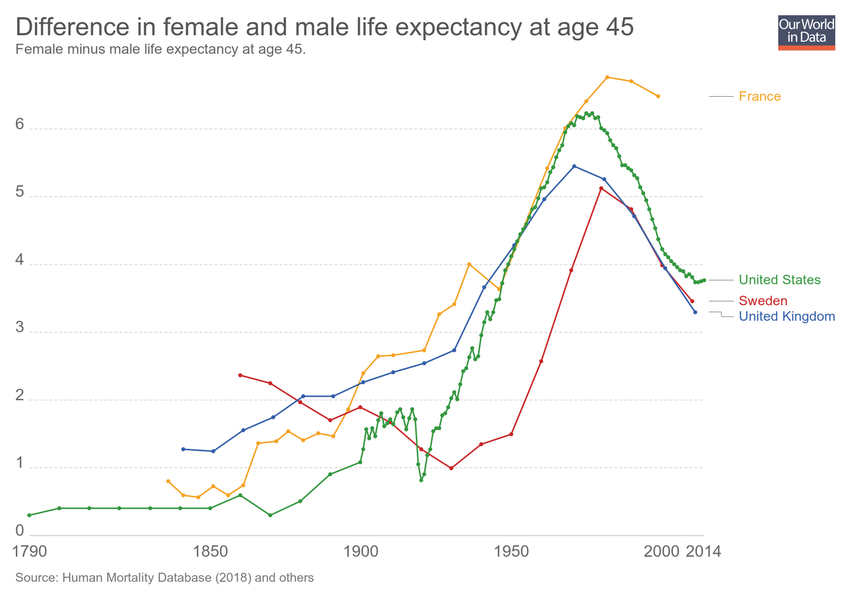
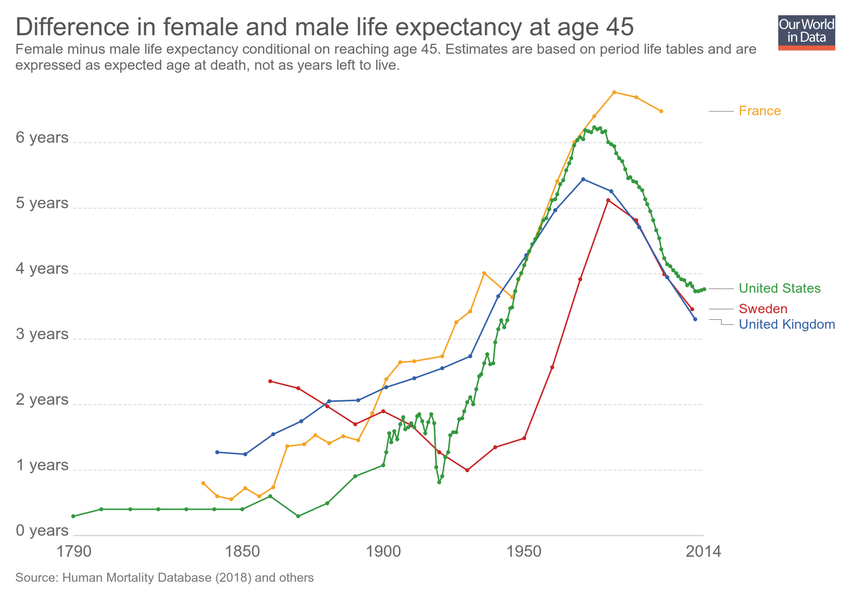
Updating chart difference-in-female-and-male-life-expectancy-at-age-45

diff --git a/grapher/difference-in-female-and-male-life-expectancy-at-age-45.html b/grapher/difference-in-female-and-male-life-expectancy-at-age-45.html
@@ -1,4 +1,4 @@
-<!doctype html><html><head><meta name="viewport" content="width=device-width, initial-scale=1" /><title>Difference in female and male life expectancy at age 45 - Our World in Data</title><meta name="description" content="Female minus male life expectancy at age 45." /><link rel="canonical" href="https://ourworldindata.org/grapher/difference-in-female-and-male-life-expectancy-at-age-45" /><meta property="fb:app_id" content="1149943818390250" /><meta property="og:url" content="https://ourworldindata.org/grapher/difference-in-female-and-male-life-expectancy-at-age-45" /><meta property="og:title" content="Difference in female and male life expectancy at age 45" /><meta property="og:description" content="Female minus male life expectancy at age 45." /><meta property="og:image" content="https://ourworldindata.org/grapher/exports/difference-in-female-and-male-life-expectancy-at-age-45.png?v=1" /><meta property="og:image:width" content="850" /><meta property="og:image:height" content="600" /><meta property="og:site_name" content="Our World in Data" /><meta name="twitter:card" content="summary_large_image" /><meta name="twitter:site" content="@OurWorldInData" /><meta name="twitter:creator" content="@OurWorldInData" /><meta name="twitter:title" content="Difference in female and male life expectancy at age 45" /><meta name="twitter:description" content="Female minus male life expectancy at age 45." /><meta name="twitter:image" content="https://ourworldindata.org/grapher/exports/difference-in-female-and-male-life-expectancy-at-age-45.png?v=1" /><style>
+<!doctype html><html><head><meta name="viewport" content="width=device-width, initial-scale=1" /><title>Difference in female and male life expectancy at age 45 - Our World in Data</title><meta name="description" content="Female minus male life expectancy conditional on reaching age 45. Estimates are based on period life tables and are expressed as expected age at death, not as years left to live." /><link rel="canonical" href="https://ourworldindata.org/grapher/difference-in-female-and-male-life-expectancy-at-age-45" /><meta property="fb:app_id" content="1149943818390250" /><meta property="og:url" content="https://ourworldindata.org/grapher/difference-in-female-and-male-life-expectancy-at-age-45" /><meta property="og:title" content="Difference in female and male life expectancy at age 45" /><meta property="og:description" content="Female minus male life expectancy conditional on reaching age 45. Estimates are based on period life tables and are expressed as expected age at death, not as years left to live." /><meta property="og:image" content="https://ourworldindata.org/grapher/exports/difference-in-female-and-male-life-expectancy-at-age-45.png?v=3" /><meta property="og:image:width" content="850" /><meta property="og:image:height" content="600" /><meta property="og:site_name" content="Our World in Data" /><meta name="twitter:card" content="summary_large_image" /><meta name="twitter:site" content="@OurWorldInData" /><meta name="twitter:creator" content="@OurWorldInData" /><meta name="twitter:title" content="Difference in female and male life expectancy at age 45" /><meta name="twitter:description" content="Female minus male life expectancy conditional on reaching age 45. Estimates are based on period life tables and are expressed as expected age at death, not as years left to live." /><meta name="twitter:image" content="https://ourworldindata.org/grapher/exports/difference-in-female-and-male-life-expectancy-at-age-45.png?v=3" /><style>
         html, body {
             height: 100%;
             margin: 0;
@@ -20,8 +20,8 @@
         }
     </style><noscript><style>
                     figure { display: none !important; }
-                </style></noscript><link rel="stylesheet" href="https://ourworldindata.org/grapher/assets/commons.bundle.14327acaf5a347011987.css" /><link rel="preload" href="/grapher/data/variables/97769.json?v=1" as="fetch" crossorigin /></head><body class="singleChart"><figure data-grapher-src="/grapher/difference-in-female-and-male-life-expectancy-at-age-45"></figure><noscript id="fallback"><img src="/grapher/exports/difference-in-female-and-male-life-expectancy-at-age-45.svg" /><p>Interactive visualization requires JavaScript</p></noscript><script src="https://cdn.polyfill.io/v2/polyfill.min.js?features=es6,fetch"></script><script src="https://ourworldindata.org/grapher/assets/commons.bundle.14327acaf5a347011987.js"></script><script src="https://ourworldindata.org/grapher/assets/charts.bundle.14327acaf5a347011987.js"></script><script>
-        var jsonConfig = {"map":{"projection":"World","colorSchemeLabels":[],"colorSchemeValues":[],"customNumericColors":[],"customCategoryColors":{},"customCategoryLabels":{},"customHiddenCategories":{}},"tab":"chart","slug":"difference-in-female-and-male-life-expectancy-at-age-45","type":"LineChart","title":"Difference in female and male life expectancy at age 45","xAxis":{"scaleType":"linear"},"yAxis":{"min":0,"scaleType":"linear"},"version":1,"subtitle":"Female minus male life expectancy at age 45.","hasMapTab":false,"stackMode":"absolute","dimensions":[{"display":{},"property":"y","variableId":97769}],"isAutoSlug":true,"hasChartTab":true,"isPublished":true,"selectedData":[{"index":0,"entityId":3},{"index":0,"entityId":10},{"index":0,"entityId":1},{"index":0,"entityId":13}],"addCountryMode":"add-country","id":2945};
+                </style></noscript><link rel="stylesheet" href="https://ourworldindata.org/grapher/assets/commons.bundle.14327acaf5a347011987.css" /><link rel="preload" href="/grapher/data/variables/97769.json?v=3" as="fetch" crossorigin /></head><body class="singleChart"><figure data-grapher-src="/grapher/difference-in-female-and-male-life-expectancy-at-age-45"></figure><noscript id="fallback"><img src="/grapher/exports/difference-in-female-and-male-life-expectancy-at-age-45.svg" /><p>Interactive visualization requires JavaScript</p></noscript><script src="https://cdn.polyfill.io/v2/polyfill.min.js?features=es6,fetch"></script><script src="https://ourworldindata.org/grapher/assets/commons.bundle.14327acaf5a347011987.js"></script><script src="https://ourworldindata.org/grapher/assets/charts.bundle.14327acaf5a347011987.js"></script><script>
+        var jsonConfig = {"id":2945,"map":{"projection":"World","colorSchemeLabels":[],"colorSchemeValues":[],"customNumericColors":[],"customCategoryColors":{},"customCategoryLabels":{},"customHiddenCategories":{}},"tab":"chart","slug":"difference-in-female-and-male-life-expectancy-at-age-45","type":"LineChart","title":"Difference in female and male life expectancy at age 45","xAxis":{"scaleType":"linear"},"yAxis":{"min":0,"scaleType":"linear"},"version":3,"subtitle":"Female minus male life expectancy conditional on reaching age 45. Estimates are based on period life tables and are expressed as expected age at death, not as years left to live.","hasMapTab":false,"stackMode":"absolute","dimensions":[{"display":{"shortUnit":"years"},"property":"y","variableId":97769}],"hasChartTab":true,"isPublished":true,"selectedData":[{"index":0,"entityId":3},{"index":0,"entityId":10},{"index":0,"entityId":1},{"index":0,"entityId":13}],"addCountryMode":"add-country"};
         var figure = document.getElementsByTagName("figure")[0];
         try {
             window.App = {};
